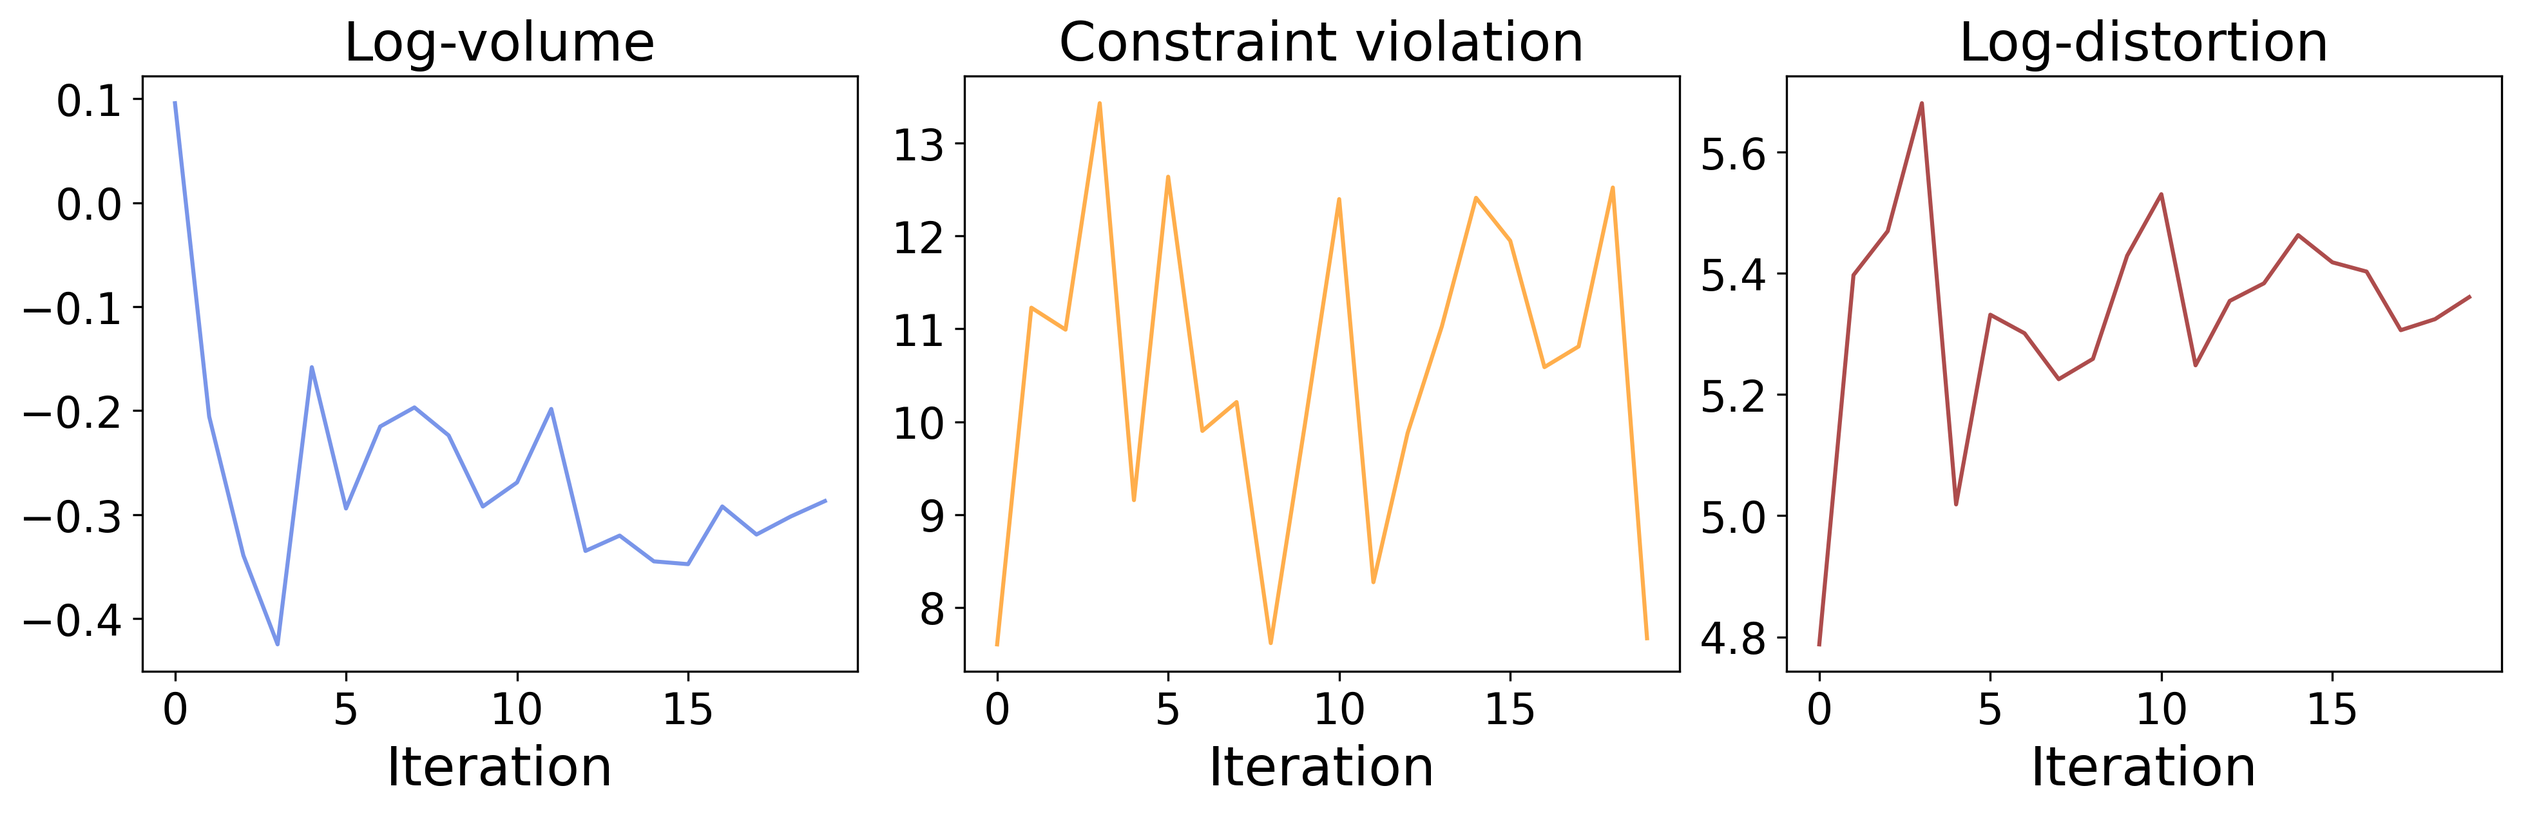
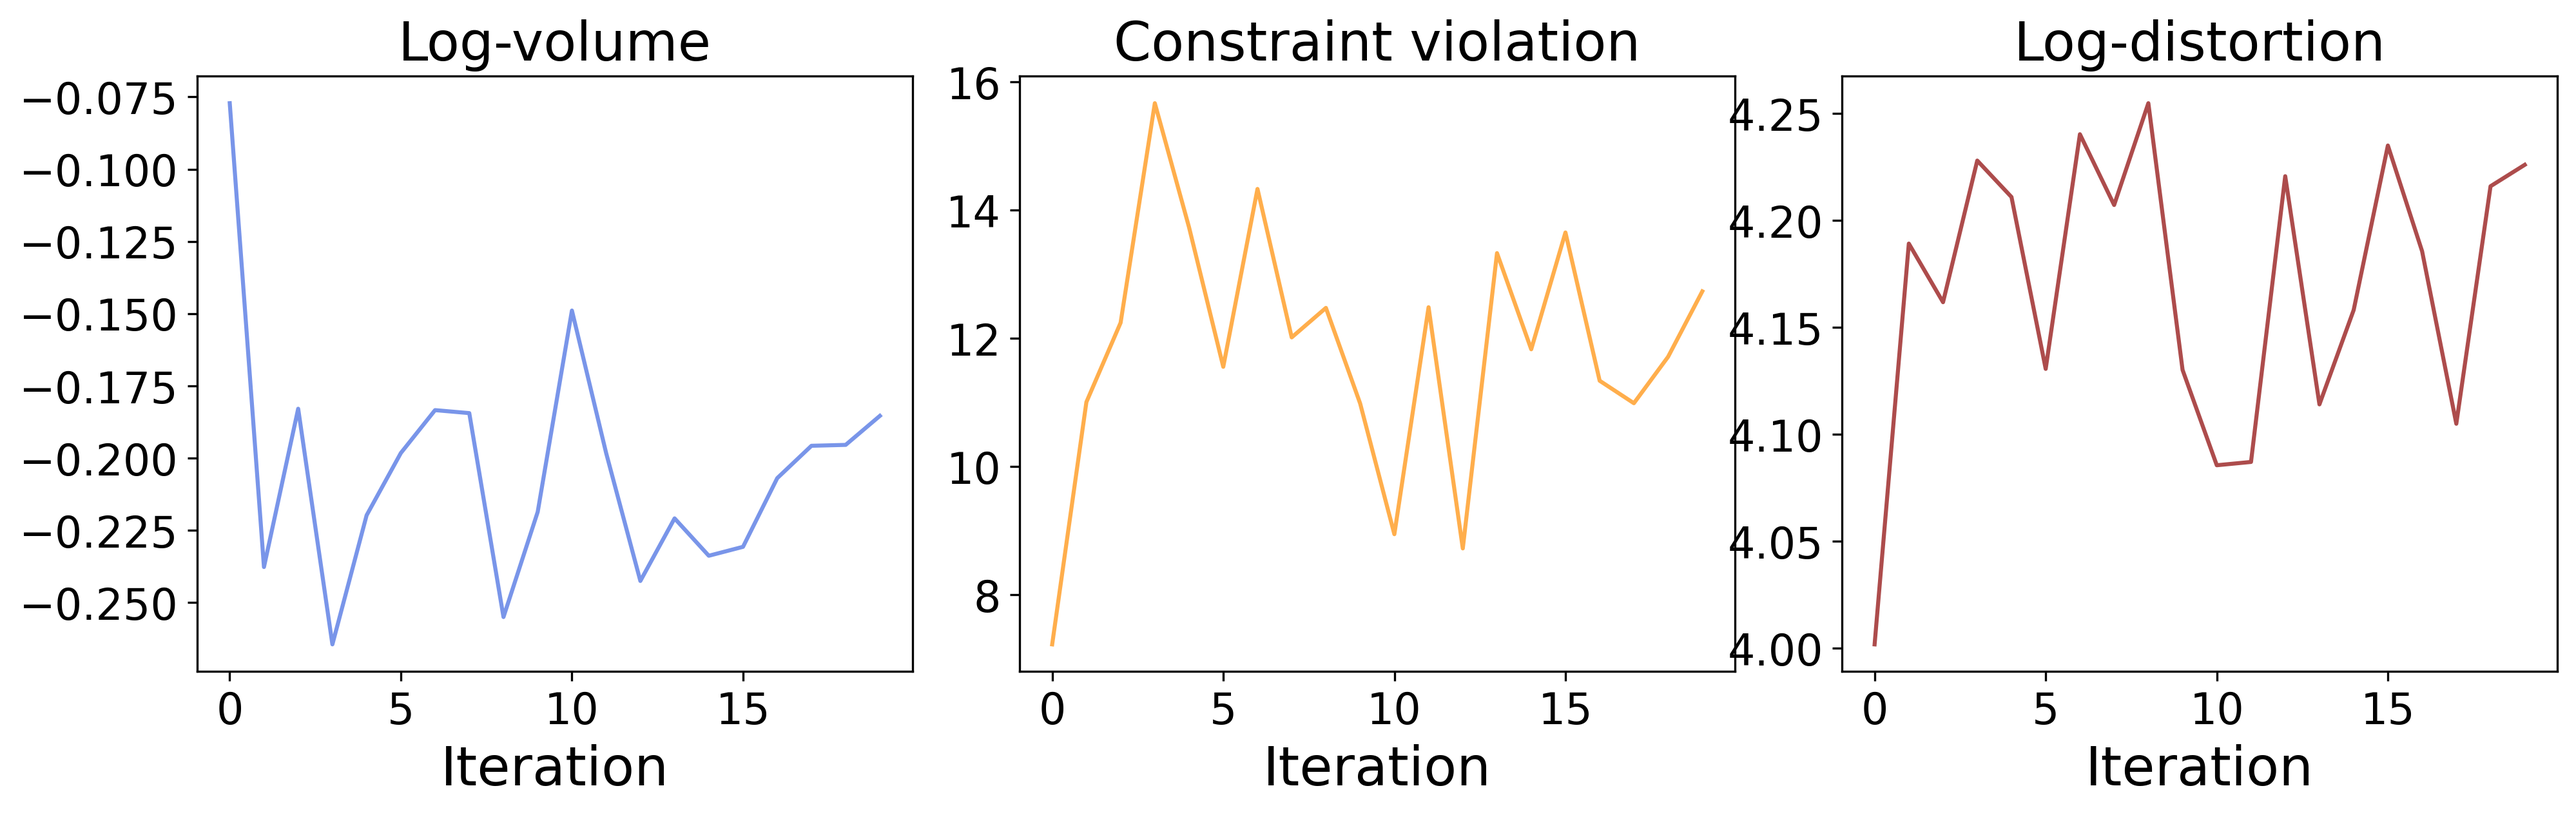
a

diff --git a/training_all.py b/training_all.py
@@ -264,7 +264,8 @@ def train_nn_solver(data, args, save_dir):
         dict_agg(epoch_stats, 'train_time', train_time, op='sum')
 
         # Print results
-        if i % args['resultsSaveFreq'] == 0 and i > 0:
+        if i % args['resultsSaveFreq'] == 0 and i > 0: 
+        # if i % args['resultsSaveFreq'] == 0 and i > 0: 
             solver_net.eval()
             with torch.no_grad():
                 eval_solution(data, Xtest, Ytest, solver_net, homeo_mapping, args, 'test', epoch_stats)

diff --git a/training_utils.py b/training_utils.py
@@ -157,7 +157,7 @@ def diff_projection(data, X, Y, args):
 
 ###################################################################
 # NN predictor
-###################################################################
+################################################################### 
 import torch.nn as nn
 import operator
 from functools import reduce

diff --git a/default_args.py b/default_args.py
@@ -8,7 +8,7 @@ def config():
     defaults['opfSize'] = [57,  10] # Adjust this as needed
     defaults['testSize'] = 1
     defaults['saveAllStats'] = False
-    defaults['resultsSaveFreq'] = 1000
+    defaults['resultsSaveFreq'] = 10
     defaults['seed'] = 2026
 
     defaults['mapping_para'] = \
